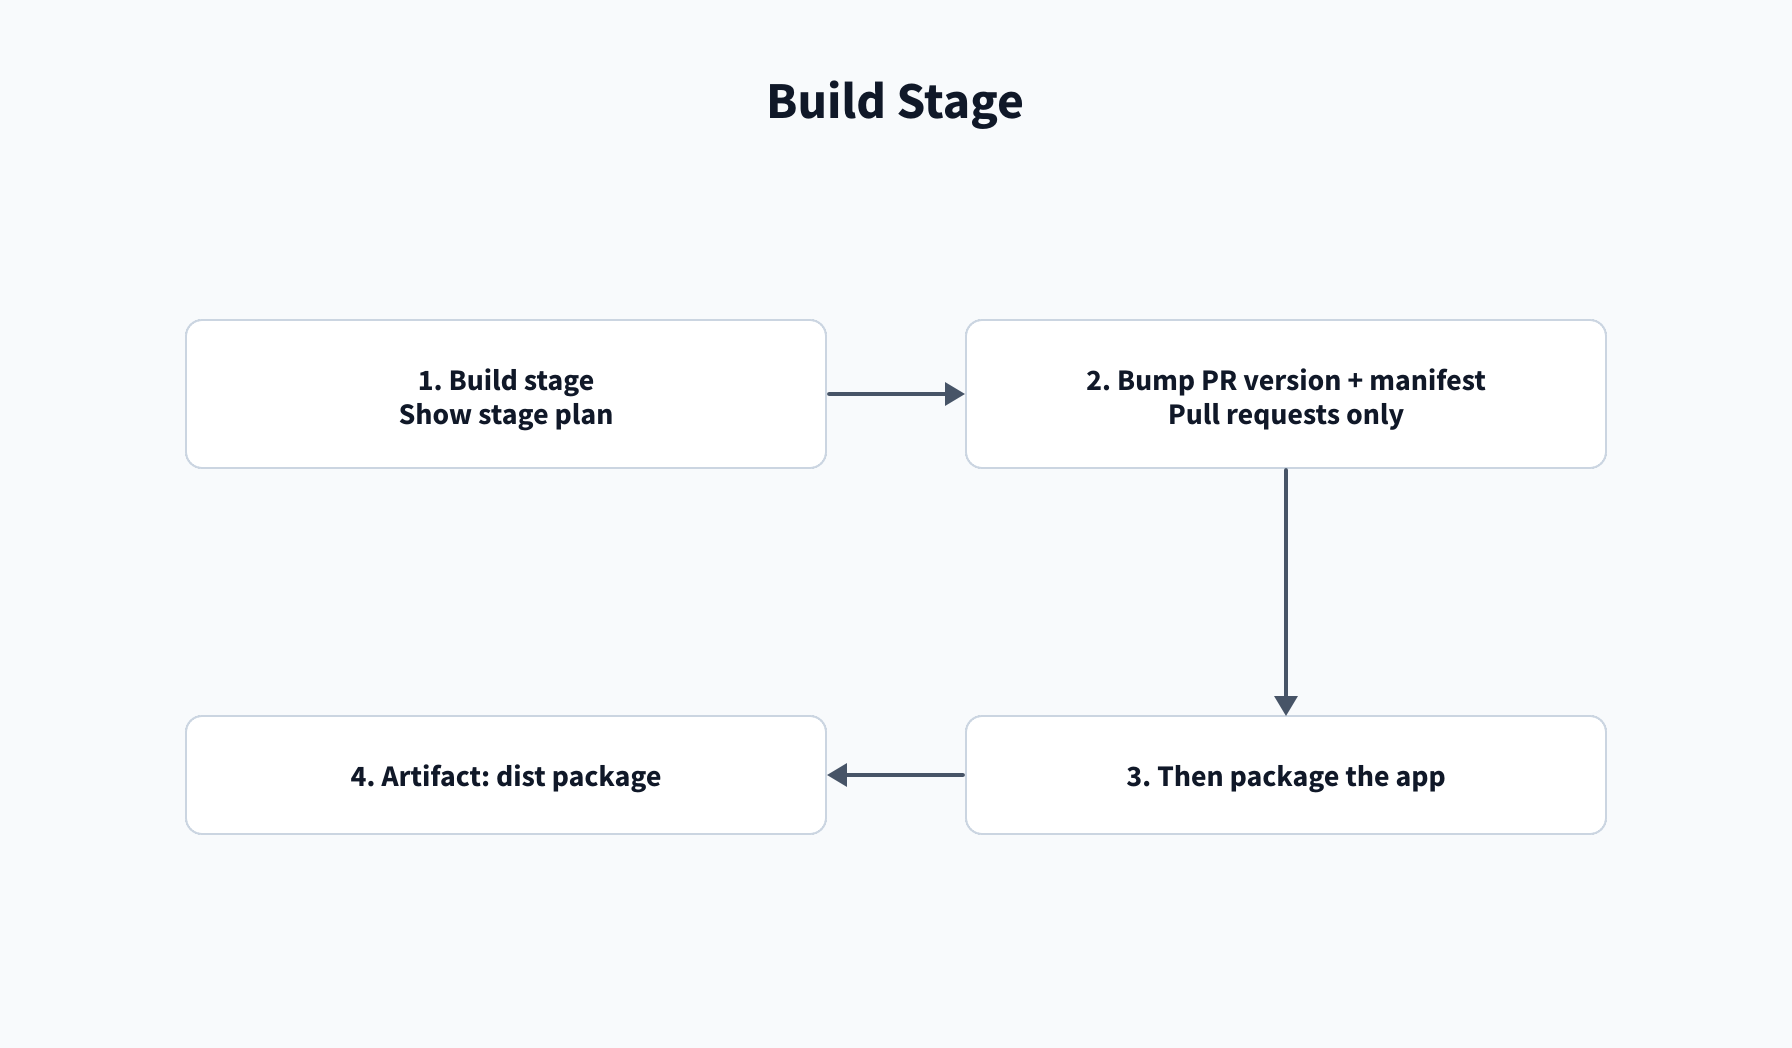
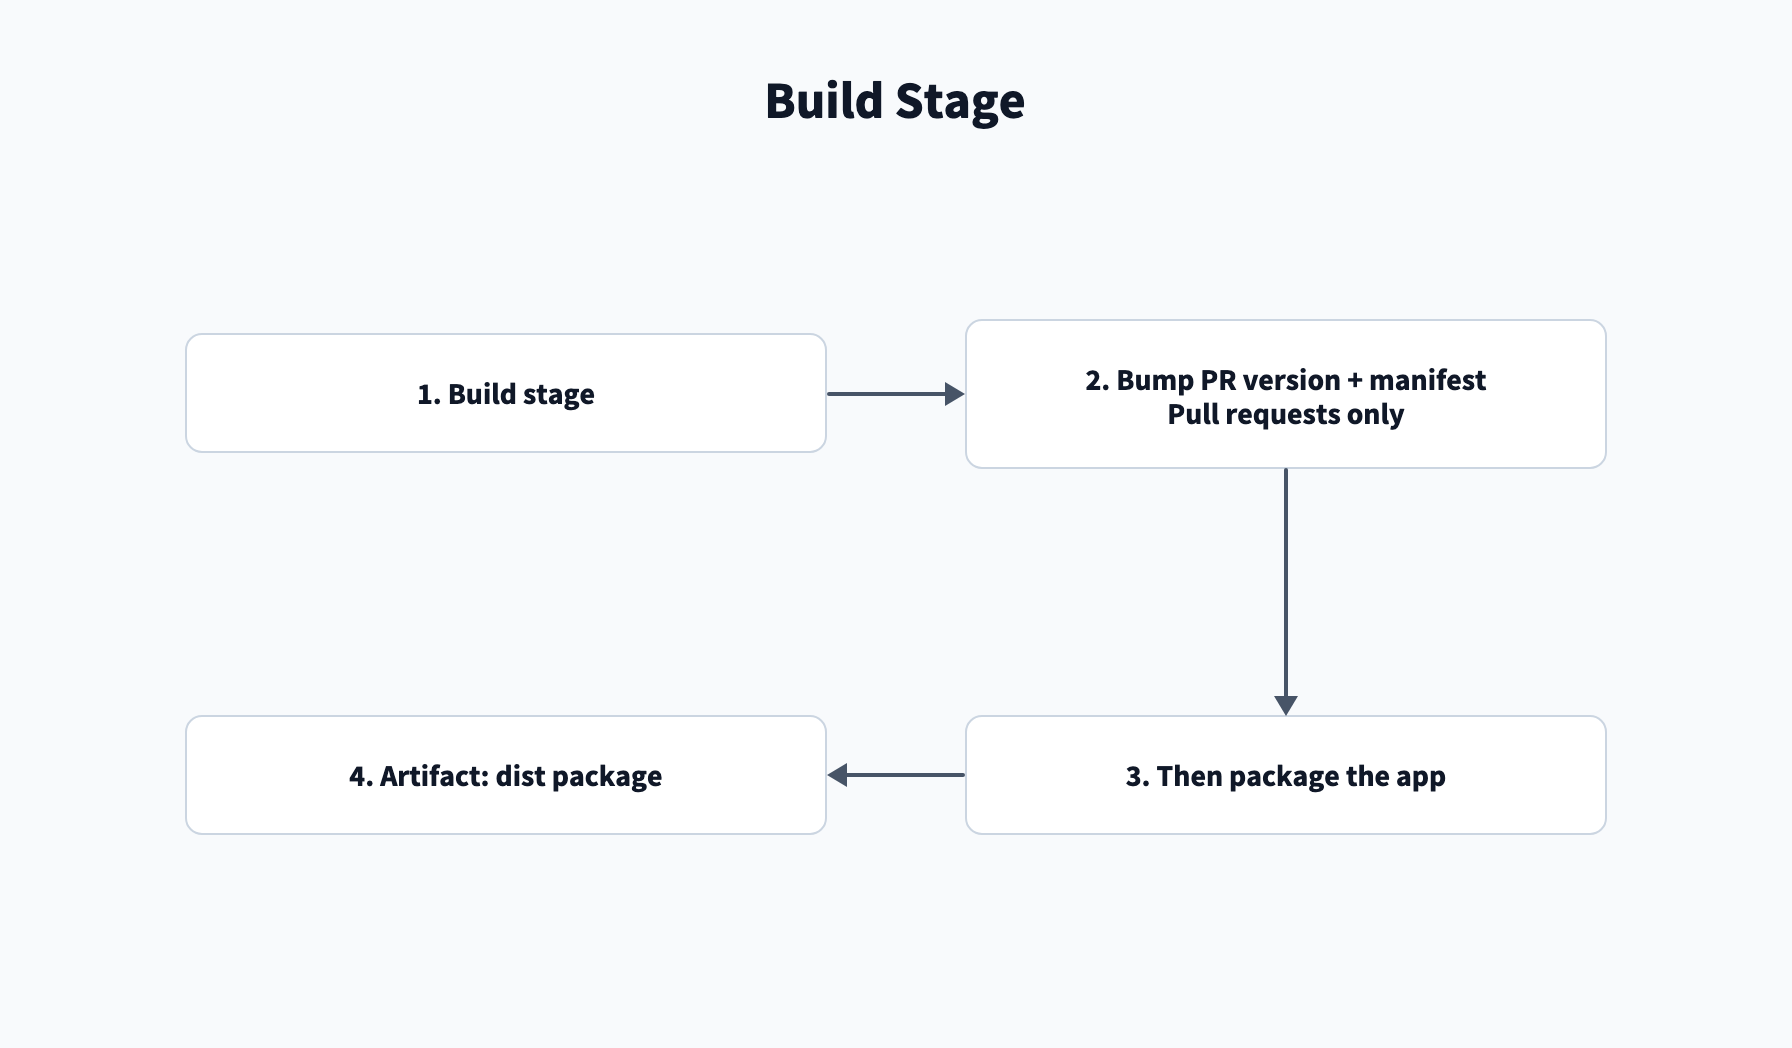
refactor: remove the stage plan step and the release.py plan command
Assisted-by: Claude:claude-opus-5-5
Claude-Session: https://claude.ai/code/session_013nwrmcfZbJe9B7UBEa9DhP

diff --git a/splunk_release/azure.py b/splunk_release/azure.py
@@ -76,26 +76,6 @@ def http(url, headers, data=None, timeout=900, method=None, missing_ok=False):
         sys.exit(f"HTTP request failed with no HTTP status: {getattr(e, 'reason', e)}")
 
 
-def plan():
-    """Print which stages this run executes and the rule behind each."""
-    reason = os.environ.get("BUILD_REASON", "")
-    branch = os.environ.get("BUILD_SOURCEBRANCH", "")
-    pull_request, main = reason == "PullRequest", branch == "refs/heads/main"
-    compare = pull_request or main
-    log("section", "Stage plan")
-    print(f"Build.Reason = {reason}")
-    print(f"Build.SourceBranch = {branch}")
-    for stage, runs, rule in (
-        ("build", True, "every run"),
-        ("appinspect", True, "after build, unless the build pushed a version bump"),
-        ("nonproddiff", compare, "pull request or refs/heads/main"),
-        ("nonprod", compare, "pull request or refs/heads/main"),
-        ("proddiff", compare, "pull request or refs/heads/main"),
-        ("release", main, "refs/heads/main, after nonprod"),
-        ("prod", main, "refs/heads/main, Run stage after release and proddiff, then the splunk-prod approval"),
-    ):
-        print(f"{stage:<12} {'RUNS' if runs else 'SKIPPED':<8} runs when {rule}")
-
 def stages_succeeded(*stages):
     """Exit unless each named stage of this run succeeded."""
     e = os.environ

diff --git a/tests/test_azure.py b/tests/test_azure.py
@@ -12,17 +12,6 @@ from splunk_release import azure
 
 
 def check_azure():
-    # The stage plan runs compare and nonprod on pull requests and main.
-    for env, runs in (
-        ({"BUILD_REASON": "PullRequest", "BUILD_SOURCEBRANCH": "refs/heads/feature"}, {"nonproddiff", "nonprod", "proddiff"}),
-        ({"BUILD_REASON": "IndividualCI", "BUILD_SOURCEBRANCH": "refs/heads/main"}, {"nonproddiff", "nonprod", "proddiff", "release", "prod"}),
-    ):
-        output = io.StringIO()
-        with patch.dict(os.environ, env, clear=True), redirect_stdout(output):
-            azure.plan()
-        shown = {line.split()[0] for line in output.getvalue().splitlines() if " RUNS " in line}
-        assert shown == {"build", "appinspect"} | runs
-
     # Deploy to prod stops unless release and proddiff succeeded in this run.
     env = {"SYSTEM_COLLECTIONURI": "https://dev.azure.com/<org>/", "SYSTEM_TEAMPROJECTID": "<project-id>",
            "BUILD_BUILDID": "7", "SYSTEM_ACCESSTOKEN": "t"}

diff --git a/release.py b/release.py
@@ -9,7 +9,6 @@
   status
   wait-version <dir>
   restart
-  plan
   export <out-dir> [app-id...]
   tree <target> <source> <out> [flags]
   local-diff <target> <source> <out> [flags]
@@ -36,7 +35,7 @@ from splunk_release.acs import (
     repair_packages, restart, status, uninstall, wait_version,
 )
 from splunk_release.appinspect import appinspect, show_report
-from splunk_release.azure import appinspect_link, plan, run_cli, stages_succeeded
+from splunk_release.azure import appinspect_link, run_cli, stages_succeeded
 from splunk_release.compare import data_models, diff, local_diff, tree
 from splunk_release.import_app import import_app, onboard
 from splunk_release.package import package
@@ -57,7 +56,6 @@ commands = {
     "status": status,
     "wait-version": wait_version,
     "restart": restart,
-    "plan": plan,
     "export": export,
     "tree": tree,
     "local-diff": local_diff,

diff --git a/wiki/Troubleshooting/Build.md b/wiki/Troubleshooting/Build.md
@@ -4,11 +4,10 @@ Use this page to fix skipped stages, version bumps, package sorting, and artifac
 
 ## A stage after AppInspect is skipped
 
-1. Open the build job and read **Show stage plan**.
-2. Check the trigger and stage conditions in [App](/Pipelines/App).
-3. For pull request validation, confirm that the Build validation policy exists on `main`. See
+1. Check the trigger and stage conditions in [App](/Pipelines/App).
+2. For pull request validation, confirm that the Build validation policy exists on `main`. See
    [Onboard: After onboarding](/Pipelines/Onboard#after-onboarding), step 5.
-4. For a skipped `release` stage, run the pipeline from `main`.
+3. For a skipped `release` stage, run the pipeline from `main`.
 
 ## The version bump step prints a skip reason
 

diff --git a/wiki/Reference/Stages.md b/wiki/Reference/Stages.md
@@ -48,7 +48,6 @@ Steps, in order:
 - **Checkout tools (`checkout: tools`, default `setup`):** gets the shared scripts.
 - **UsePythonVersion@0 (default `setup`):** selects Python 3.13.
 - **Use UTF-8 for Python files and output (default `setup`):** sets `PYTHONUTF8=1` for later steps.
-- **Show stage plan:** prints each stage and its run condition, from the build reason and source branch.
 - **Install diff dependencies:** installs pinned `ksconf` and Splunk SDK packages from `templates/diff-tools.yml`.
 - **Install packaging toolkit:** the shared dependency template adds the packaging toolkit, `slim`, for build and
   import jobs.

diff --git a/wiki/Reference/Code-layout.md b/wiki/Reference/Code-layout.md
@@ -6,7 +6,7 @@ Use this table to find the main release command, the module files, and the templ
 | --- | --- |
 | `release.py` | Command list and CLI dispatch. |
 | `splunk_release/__init__.py` | Package marker. |
-| `splunk_release/azure.py` | Pipeline plan, HTTP requests, and log helpers. |
+| `splunk_release/azure.py` | HTTP requests and log helpers. |
 | `splunk_release/version.py` | App identity, versions, manifests, and Git. |
 | `splunk_release/import_app.py` | Environment export import, onboarding, and pull request. |
 | `splunk_release/package.py` | Configuration sorting, staging, and packaging. |

diff --git a/wiki/Reference/Release.py-commands.md b/wiki/Reference/Release.py-commands.md
@@ -26,8 +26,6 @@ Every ACS command retries every 30 seconds for up to 15 minutes while ACS return
 - `appinspect-json <report>` prints the JSON report with `failure` and `error` result lines in red. Then it
   lists each check that is not `success` or `not_applicable`, with its messages.
 - `appinspect-link` prints the current build's AppInspect artifact link.
-- `plan` prints each stage the run executes, with the rule behind each one. It reads `BUILD_REASON` and
-  `BUILD_SOURCEBRANCH`. The **Show stage plan** step runs it.
 
 ## Deploy, wait, and restart
 

diff --git a/wiki/Pipelines/App.md b/wiki/Pipelines/App.md
@@ -18,7 +18,6 @@ agent pool, which defaults to `ubuntu-latest`.
 - Pull request runs start from a Build validation policy on `main`. Azure Repos ignores YAML `pr:`
   triggers. The policy is set up in [Onboard, after onboarding](/Pipelines/Onboard#after-onboarding).
 - Main runs start from the YAML trigger on `main`.
-- **Show stage plan** in the build job prints the run reason and the condition of each stage.
 - Stage inputs and outputs are in [Reference: Stages](/Reference/Stages).
 
 ![Pull request flow.](../diagrams/pr-run.png)
